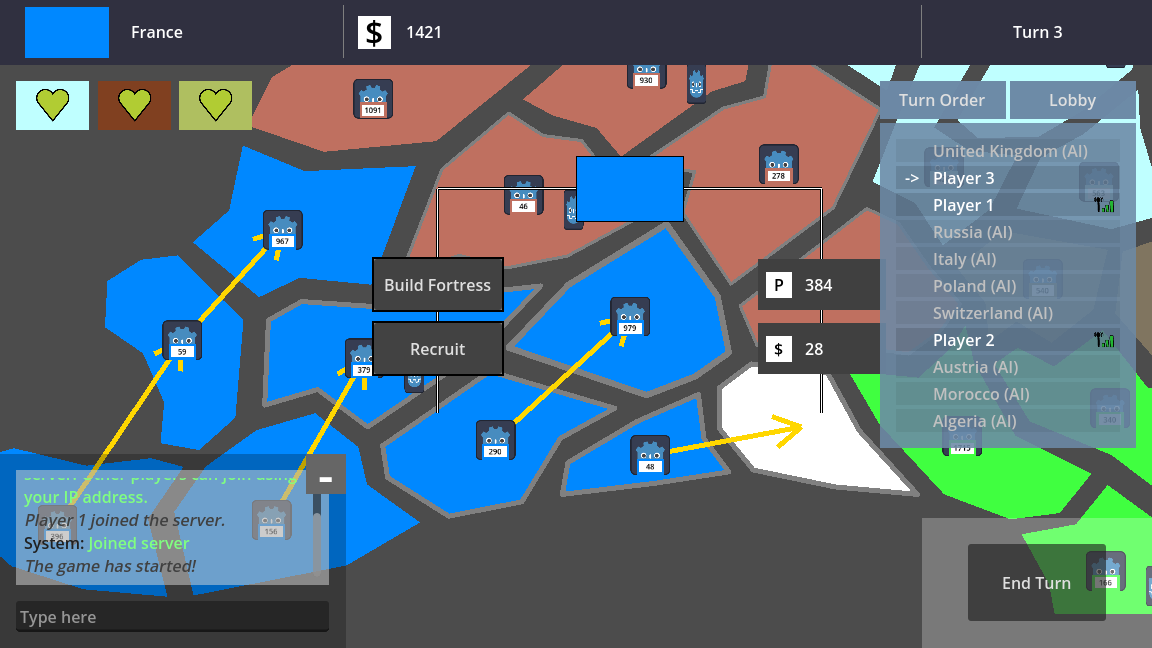
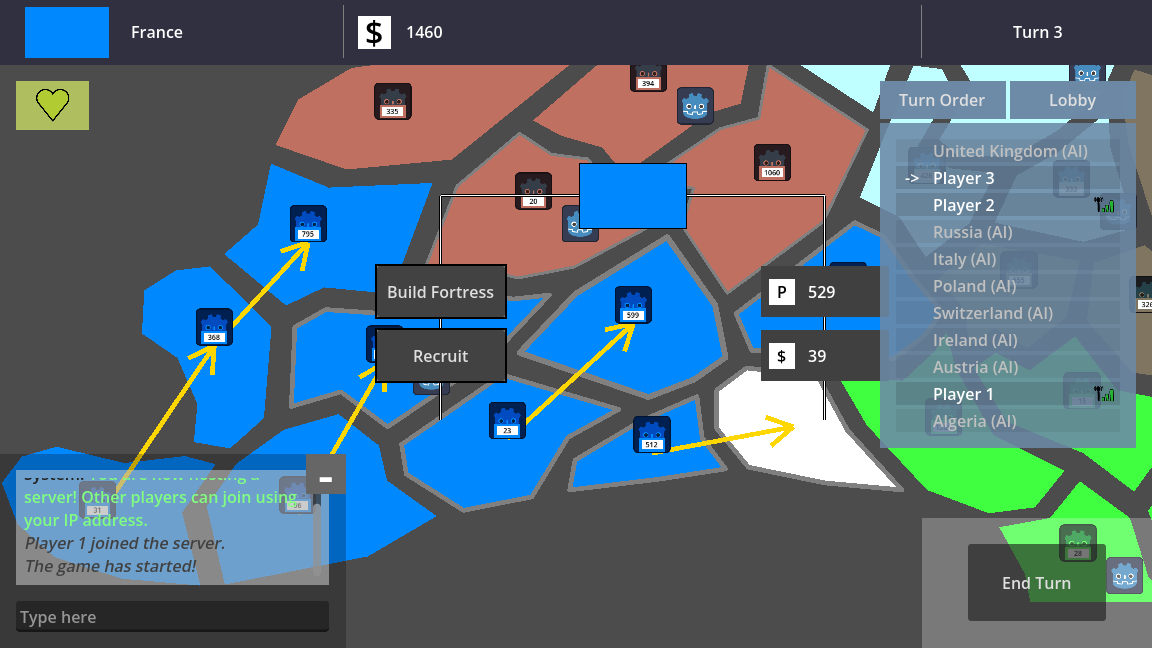
Update README and screenshots; bump port

diff --git a/README.md b/README.md
@@ -1,15 +1,16 @@
-## Grand Strategy Game (placeholder name)
-[Download the latest release](https://github.com/SamTheBlow/grand-strategy-game/releases/latest)
+## Grand Strategy Maker
+[Download the latest release](https://github.com/SamTheBlow/grand-strategy-maker/releases/latest)
 
-This is an ambitious project that aims to be the grand strategy game to end all grand strategy games.\
-It can be used as a sandbox, as a game engine, or just to play games.
+Play a grand strategy game, or make your own and share it!
+You can use this as a sandbox, as a game engine, or just to play games.
 
-But, it is still in early development. It has almost no graphics, and it's missing a lot of features.
+- Edit entire projects and save files
+- Random world generation
+- Local and online multiplayer
+- Chat and chat commands
+- Different AI types and personalities
 
-In its current state, what makes it stand out is that you can adjust the game's rules to your liking.\
-Other noteworthy features: local & online multiplayer; custom map support; chat & chat commands; several AI types and personalities.
-
-It's already fun to play, so feel free to give it a try!
+Note that it is still in early development: graphics, audio and tons of features are lacking.
 
 <div>
   <img style="width: 40%" src="/screenshot-gameplay1.png" alt="Gameplay Screenshot">
@@ -17,7 +18,5 @@ It's already fun to play, so feel free to give it a try!
 </div>
 
 \
-This is a community project that anyone can contribute to. If you want to contribute in any way, please do!\
-This project is specifically designed to be easy to work on. Check out the [wiki](https://github.com/SamTheBlow/grand-strategy-game/wiki) to get started!
-
+This is a community project that anyone can contribute to. If you want to contribute in any way, feel free to check out the [wiki](https://github.com/SamTheBlow/grand-strategy-maker/wiki)!
 
